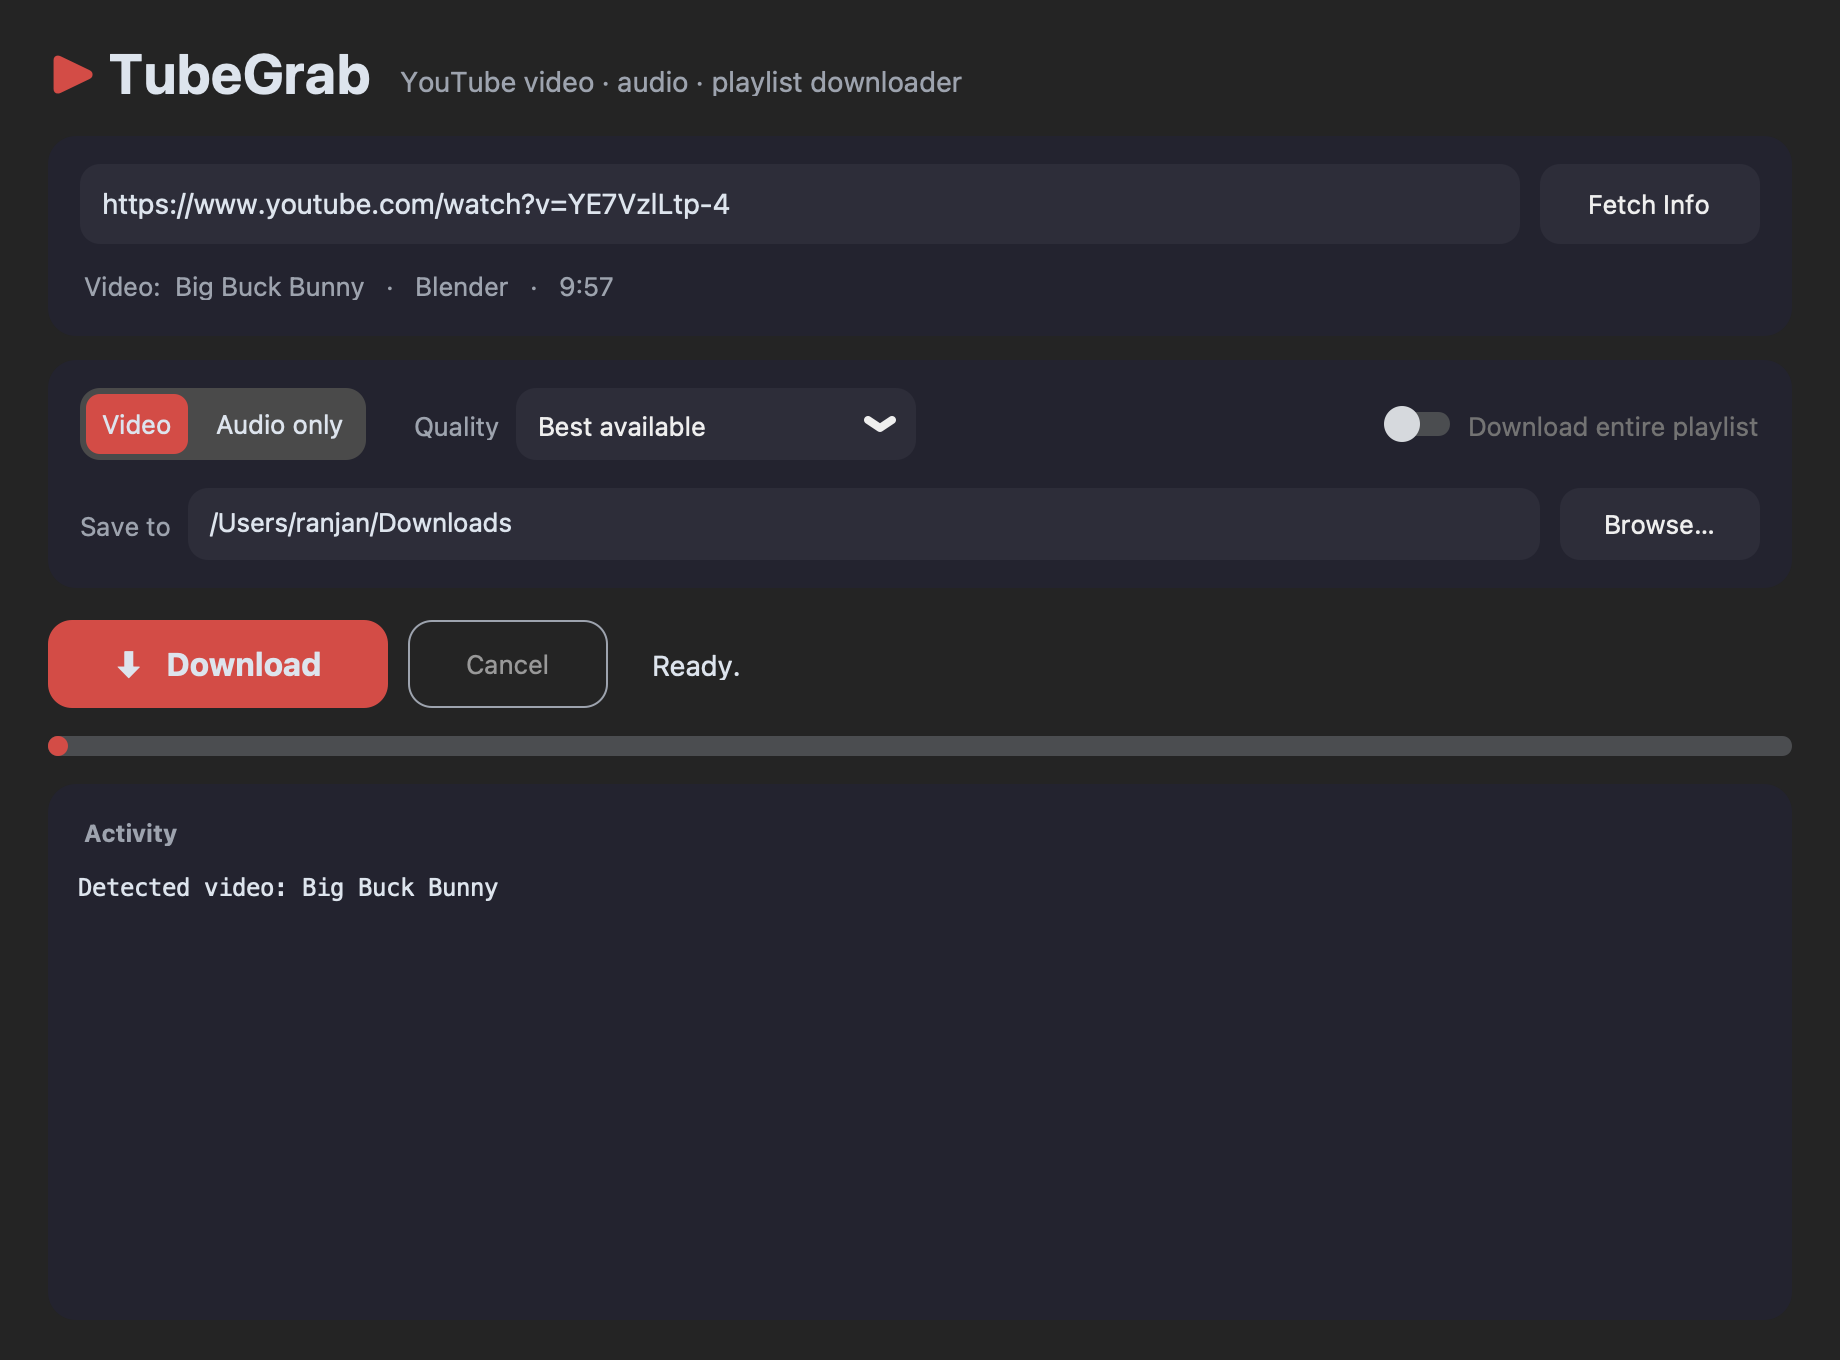
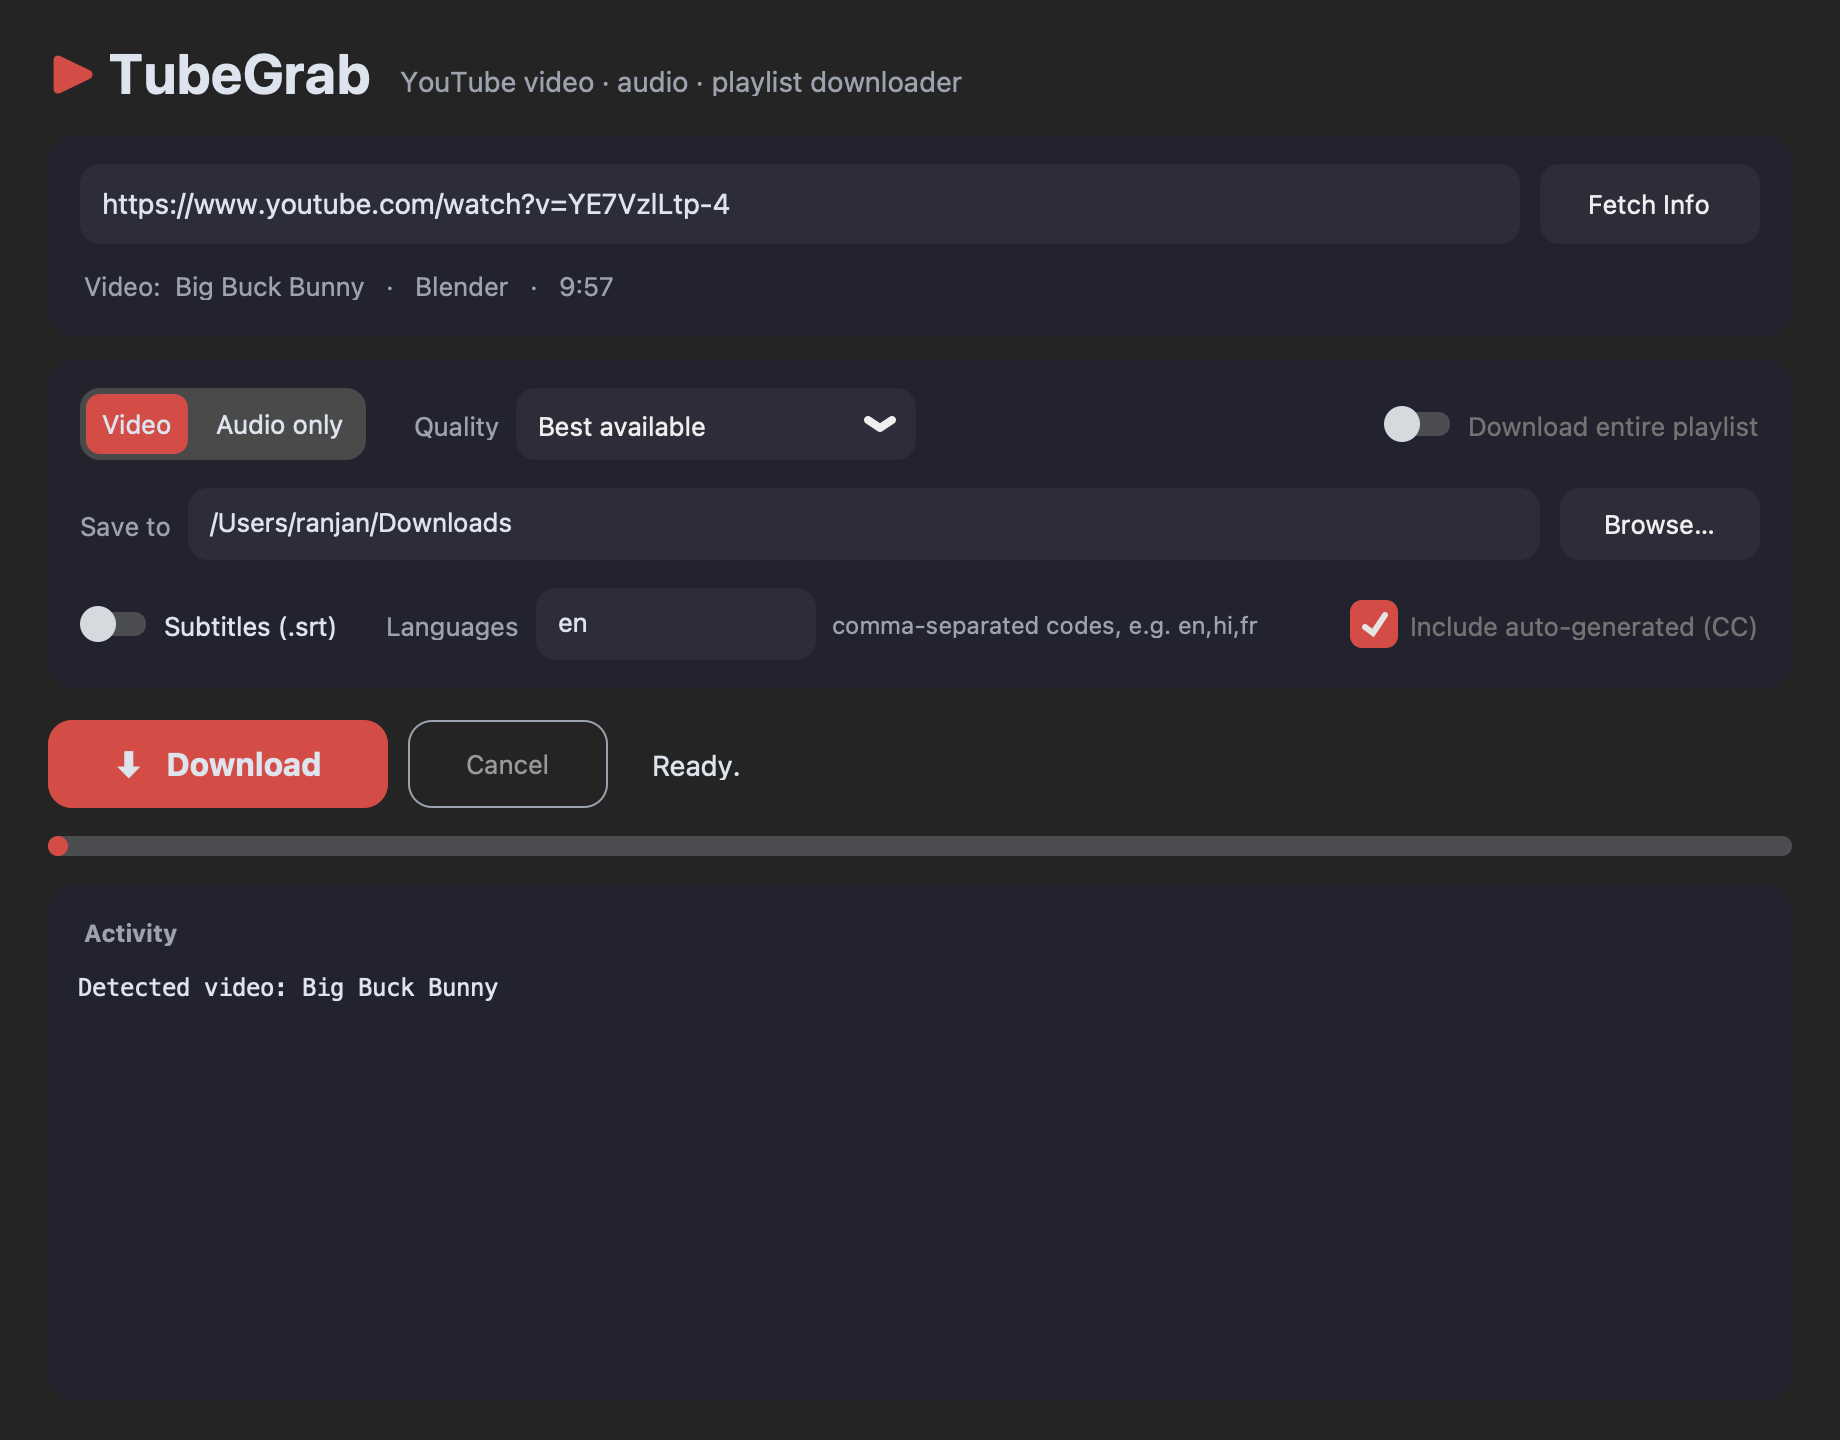
Add subtitle downloads: manual + auto-CC, multi-language, SRT conversion

diff --git a/tubegrab.py b/tubegrab.py
@@ -55,8 +55,8 @@ class TubeGrab(ctk.CTk):
         super().__init__()
         ctk.set_appearance_mode("dark")
         self.title(APP_NAME)
-        self.geometry("920x680")
-        self.minsize(820, 600)
+        self.geometry("920x720")
+        self.minsize(820, 640)
 
         self.events = queue.Queue()
         self.cancel_flag = threading.Event()
@@ -148,6 +148,33 @@ class TubeGrab(ctk.CTk):
                       text_color=("#111", "#eee"),
                       command=self.choose_dir).pack(side="left", padx=(10, 0))
 
+        # Subtitles row
+        srow = ctk.CTkFrame(opts, fg_color="transparent")
+        srow.pack(fill="x", padx=16, pady=(0, 14))
+        self.subs_var = tk.BooleanVar(value=False)
+        self.subs_sw = ctk.CTkSwitch(
+            srow, text="Subtitles (.srt)", variable=self.subs_var,
+            progress_color=ACCENT, font=ctk.CTkFont(size=13),
+            command=self._refresh_subs)
+        self.subs_sw.pack(side="left")
+        ctk.CTkLabel(srow, text="Languages", text_color=MUTED,
+                     font=ctk.CTkFont(size=13)).pack(side="left", padx=(24, 8))
+        self.sublang_var = tk.StringVar(value="en")
+        self.sublang_entry = ctk.CTkEntry(
+            srow, textvariable=self.sublang_var, width=140, height=36,
+            corner_radius=10, fg_color=FIELD, border_width=0,
+            font=ctk.CTkFont(size=13), state="disabled")
+        self.sublang_entry.pack(side="left")
+        ctk.CTkLabel(srow, text="comma-separated codes, e.g. en,hi,fr",
+                     text_color=MUTED, font=ctk.CTkFont(size=12)).pack(
+                         side="left", padx=(8, 0))
+        self.autocc_var = tk.BooleanVar(value=True)
+        self.autocc_chk = ctk.CTkCheckBox(
+            srow, text="Include auto-generated (CC)", variable=self.autocc_var,
+            fg_color=ACCENT, hover_color=ACCENT_HOVER,
+            font=ctk.CTkFont(size=13), state="disabled")
+        self.autocc_chk.pack(side="right")
+
         # Action row
         act = ctk.CTkFrame(root, fg_color="transparent")
         act.pack(fill="x", pady=(16, 0))
@@ -190,6 +217,11 @@ class TubeGrab(ctk.CTk):
         table = VIDEO_QUALITIES if self.mode_var.get() == "Video" else AUDIO_QUALITIES
         self.quality_menu.configure(values=list(table))
         self.quality_var.set(next(iter(table)))
+
+    def _refresh_subs(self):
+        state = "normal" if self.subs_var.get() else "disabled"
+        self.sublang_entry.configure(state=state)
+        self.autocc_chk.configure(state=state)
 
     def _log(self, msg):
         self.log.configure(state="normal")
@@ -263,6 +295,17 @@ class TubeGrab(ctk.CTk):
                     "preferredcodec": codec,
                     "preferredquality": bitrate,
                 }]
+
+        if self.subs_var.get():
+            langs = [l.strip() for l in self.sublang_var.get().split(",") if l.strip()]
+            ydl_opts["writesubtitles"] = True
+            ydl_opts["writeautomaticsub"] = self.autocc_var.get()
+            ydl_opts["subtitleslangs"] = langs or ["en"]
+            ydl_opts["subtitlesformat"] = "best"
+            ydl_opts.setdefault("postprocessors", []).append(
+                {"key": "FFmpegSubtitlesConvertor", "format": "srt"})
+            self._log(f"Subtitles enabled: {', '.join(langs or ['en'])}"
+                      + (" (incl. auto-CC)" if self.autocc_var.get() else ""))
 
         threading.Thread(target=self._download_worker, args=(url, ydl_opts),
                          daemon=True).start()

diff --git a/README.md b/README.md
@@ -21,6 +21,7 @@ A sleek, dark-mode desktop GUI for downloading YouTube **videos**, **audio**, an
 - **Modern dark UI** — rounded cards, segmented controls, and a red accent theme (customtkinter)
 - **Video downloads** with quality caps: Best available, 4K, 1080p, 720p, 480p (merged to `.mp4`)
 - **Audio-only downloads**: best original format, MP3 320/192 kbps, or M4A (AAC)
+- **Subtitles (.srt)** — grab manual subtitles and/or YouTube's auto-generated captions (CC) in any languages (`en,hi,fr,…`), converted to `.srt` with ffmpeg
 - **Playlist support** — auto-detected from the URL; saves into a folder named after the playlist with numbered files (`01 - Title.mp4`, …)
 - **Fetch Info** before downloading to confirm you have the right video/playlist
 - Live **progress bar**, download **speed**, and a scrollable **log**
@@ -64,8 +65,9 @@ python -m venv .venv
    - *Video → Best available*: highest resolution + best audio, merged to mp4
    - *Audio → Best (original format)*: exact source audio stream, no re-encode
    - *Audio → MP3 320/192*: converted with ffmpeg
-4. For playlists, keep **Download entire playlist** checked to grab every video (files are numbered in playlist order).
-5. Choose the **Save to** folder (defaults to `~/Downloads`) and hit **Download**.
+4. Want subtitles? Flip on **Subtitles (.srt)**, list the language codes you want (e.g. `en` or `en,hi,fr`), and tick **Include auto-generated (CC)** to fall back to YouTube's auto captions when no manual subs exist. Files are saved next to the video as `Title.en.srt`.
+5. For playlists, keep **Download entire playlist** checked to grab every video (files are numbered in playlist order).
+6. Choose the **Save to** folder (defaults to `~/Downloads`) and hit **Download**.
 
 ## Troubleshooting
 